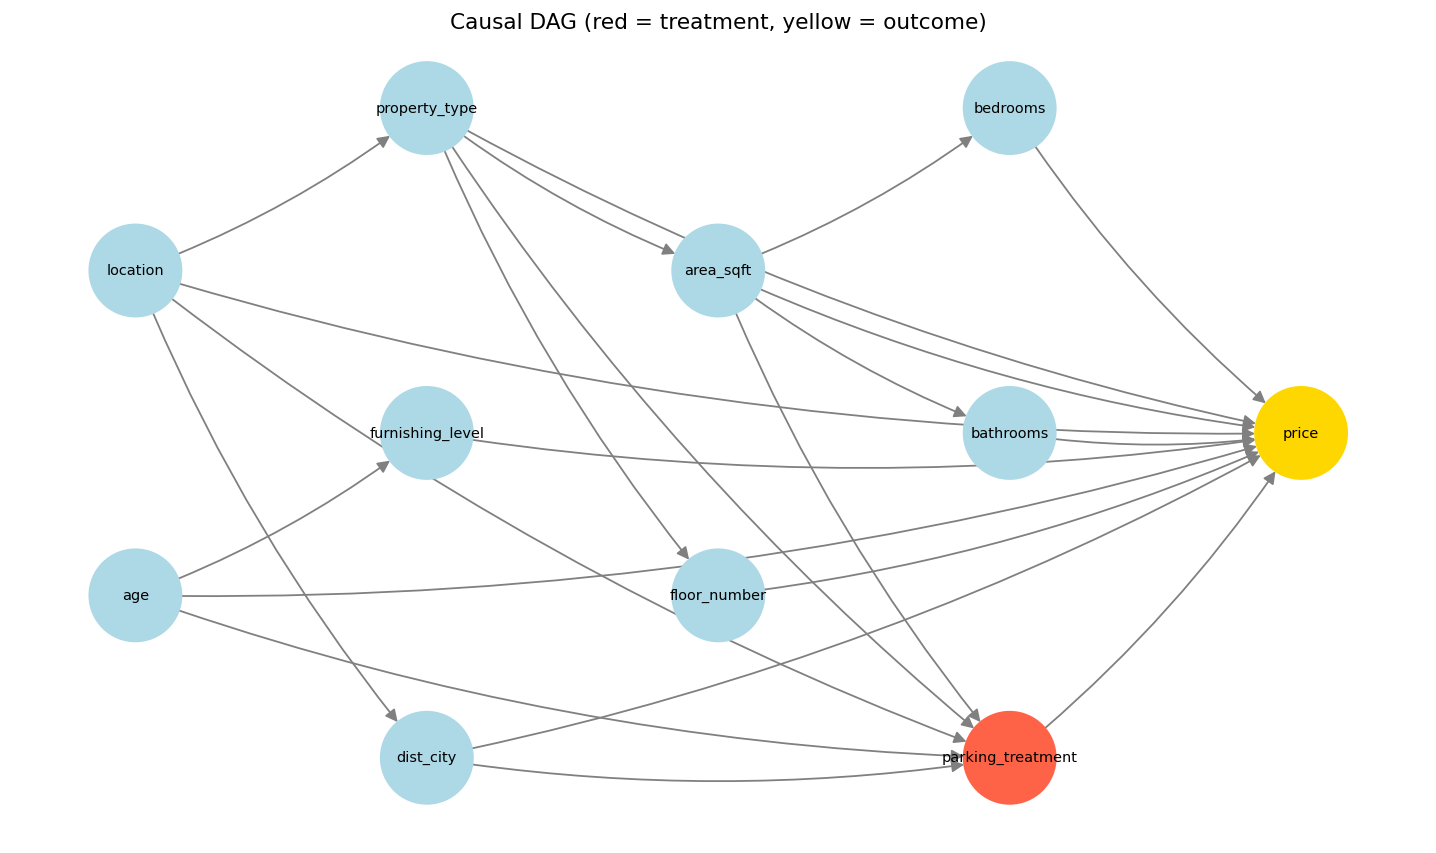
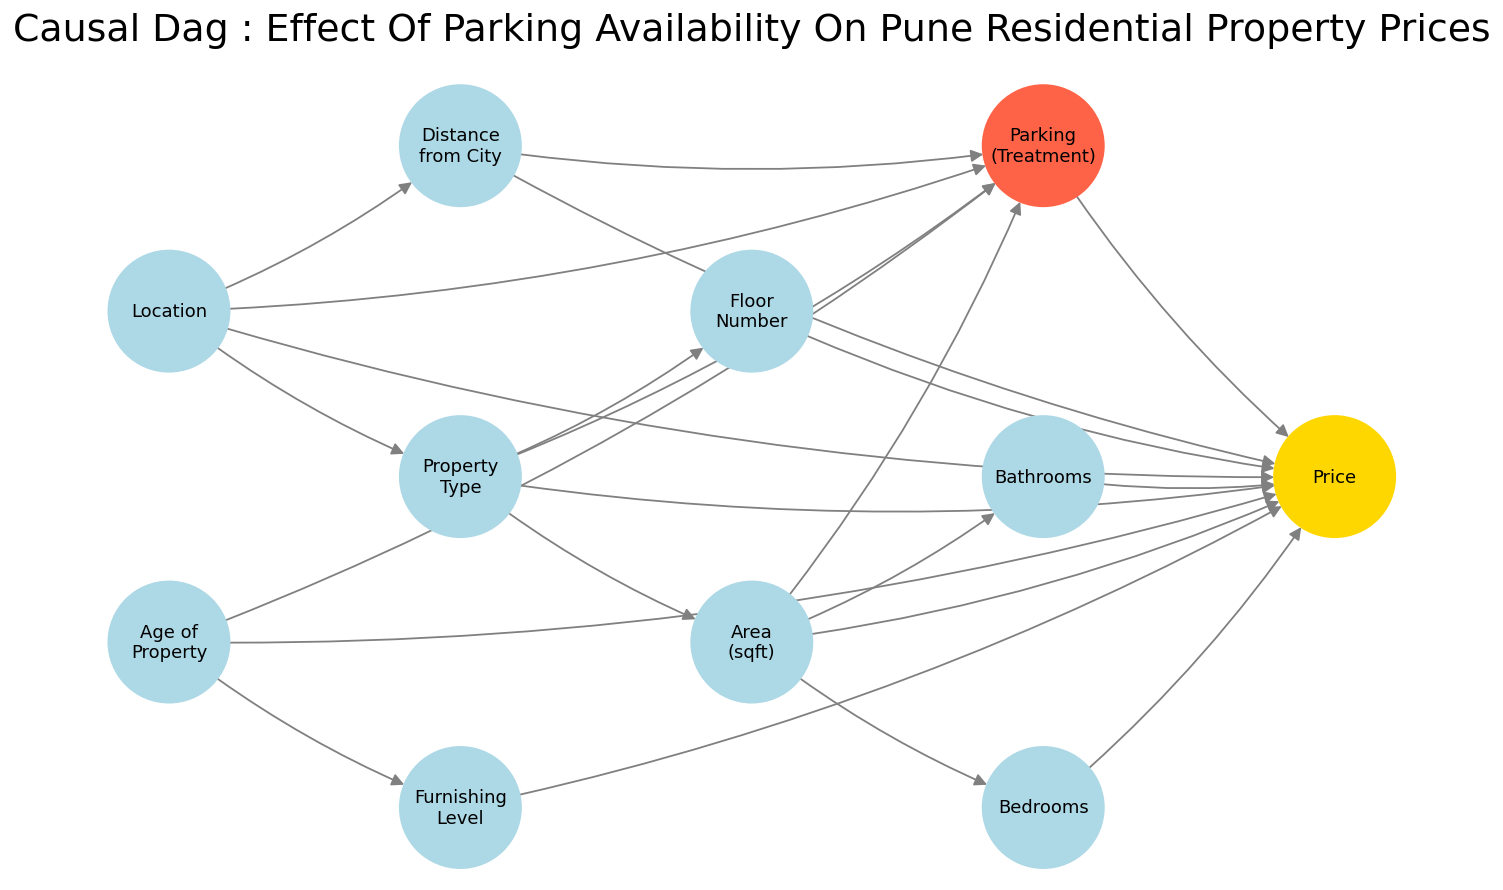
DAG

diff --git a/Member 2/dag2.py b/Member 2/dag2.py
@@ -35,7 +35,7 @@ def finish_plot(name):
     plt.close()
 
 # ==========================================
-# DATA INGESTION AND CLEANING
+# TASK 1: DATA INGESTION AND CLEANING
 # ==========================================
 df = pd.read_csv(DATA_PATH)
 
@@ -115,7 +115,8 @@ finish_plot("avg_ppsf_by_region.png")
 df.to_csv(out("cleaned_dataset.csv"), index=False)
 
 # ==========================================
-# CAUSAL DAG USING DOWHY
+# TASK 2: CAUSAL DAG USING DOWHY
+# Question: what is the causal effect of PARKING on PRICE?
 # ==========================================
 df["parking_treatment"] = df["parking"].map({"Yes": 1, "No": 0})
 # Furnishing as an ordered numeric level (DoWhy needs numeric effect modifiers)
@@ -172,20 +173,39 @@ for layer, nodes in enumerate(nx.topological_generations(G)):
     for n in nodes:
         G.nodes[n]["layer"] = layer
 pos = nx.multipartite_layout(G, subset_key="layer", align="vertical")
+
+# Friendly display names (only used for the picture; DoWhy keeps the real names)
+display_names = {
+    "dist_city":         "Distance\nfrom City",
+    "area_sqft":         "Area\n(sqft)",
+    "floor_number":      "Floor\nNumber",
+    "furnishing_level":  "Furnishing\nLevel",
+    "property_type":     "Property\nType",
+    "parking_treatment": "Parking\n(Treatment)",
+    "price":             "Price",
+    "age":               "Age of\nProperty",
+    "location":          "Location",
+    "bedrooms":          "Bedrooms",
+    "bathrooms":         "Bathrooms",
+}
+labels = {n: display_names.get(n, n) for n in G.nodes}
+
 node_colors = ["tomato" if n == "parking_treatment" else
                "gold" if n == "price" else "lightblue" for n in G.nodes]
 
 plt.figure(figsize=(14, 8))
-nx.draw_networkx(G, pos, node_color=node_colors, node_size=2600, font_size=8,
+nx.draw_networkx(G, pos, labels=labels, node_color=node_colors,
+                 node_size=4500, font_size=10,
                  arrows=True, arrowsize=14, edge_color="gray",
                  connectionstyle="arc3,rad=0.08")
-plt.title("Causal DAG (red = treatment, yellow = outcome)")
+plt.title("Causal Dag : Effect Of Parking Availability On Pune Residential Property Prices",
+          fontsize=21, pad=20)
 plt.axis("off")
 plt.savefig(out("causal_dag.png"), dpi=130, bbox_inches="tight")
 if not SAVE_ONLY:
     plt.show()
 plt.close()
-print("\nDAG image saved:", out("causal_dag.png"))
+print("\nDAG image saved:", os.path.abspath(out("causal_dag.png")))
 
 # Create DoWhy model
 model = CausalModel(
@@ -226,7 +246,7 @@ for refuter in ["random_common_cause", "placebo_treatment_refuter"]:
         print(f"\nRefutation {refuter} skipped:", e)
 
 # ==========================================
-# PRE-TREATMENT AND TREATMENT PERIOD
+# TASK 3: PRE-TREATMENT AND TREATMENT PERIOD
 # ==========================================
 # NOTE: this dataset has NO transaction dates, so this is only a
 # DEMONSTRATION split by row order, not a real before/after separation.
